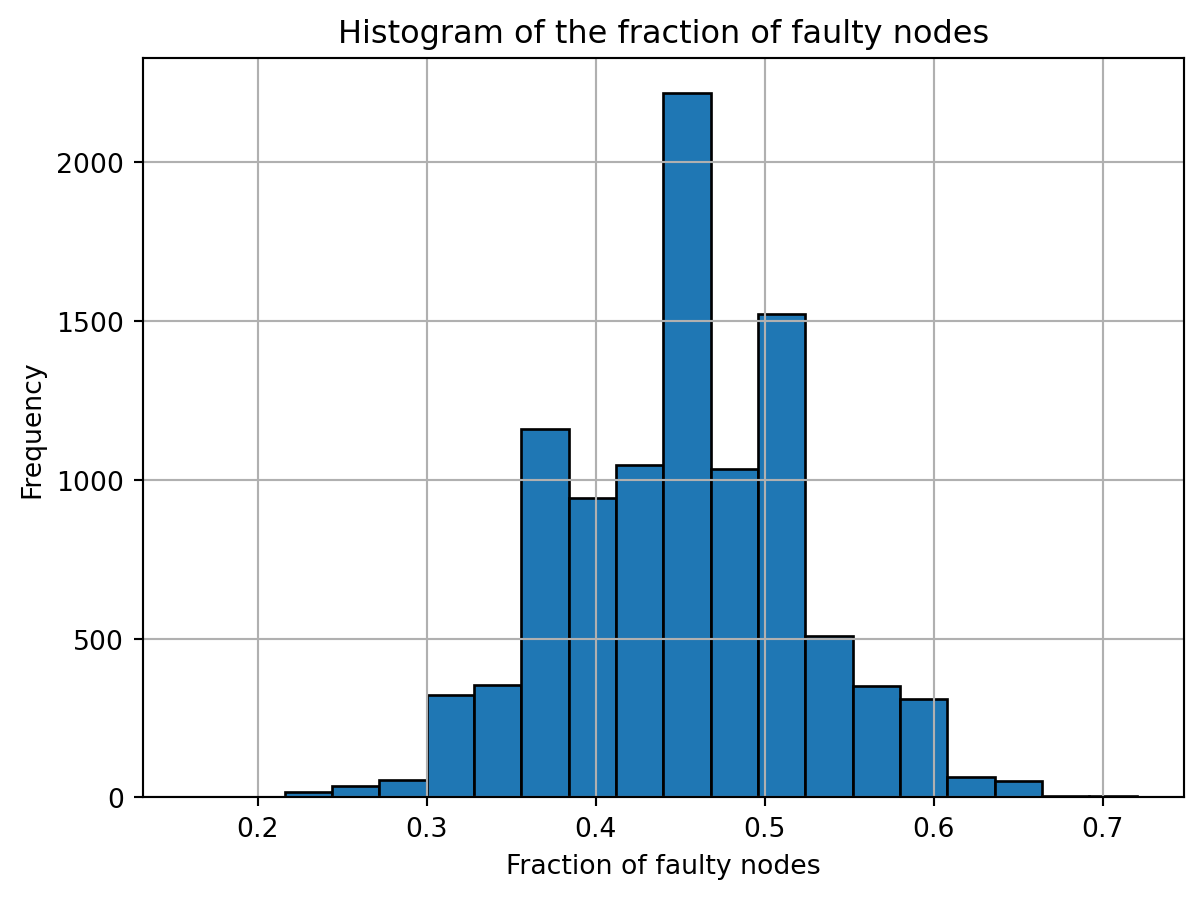
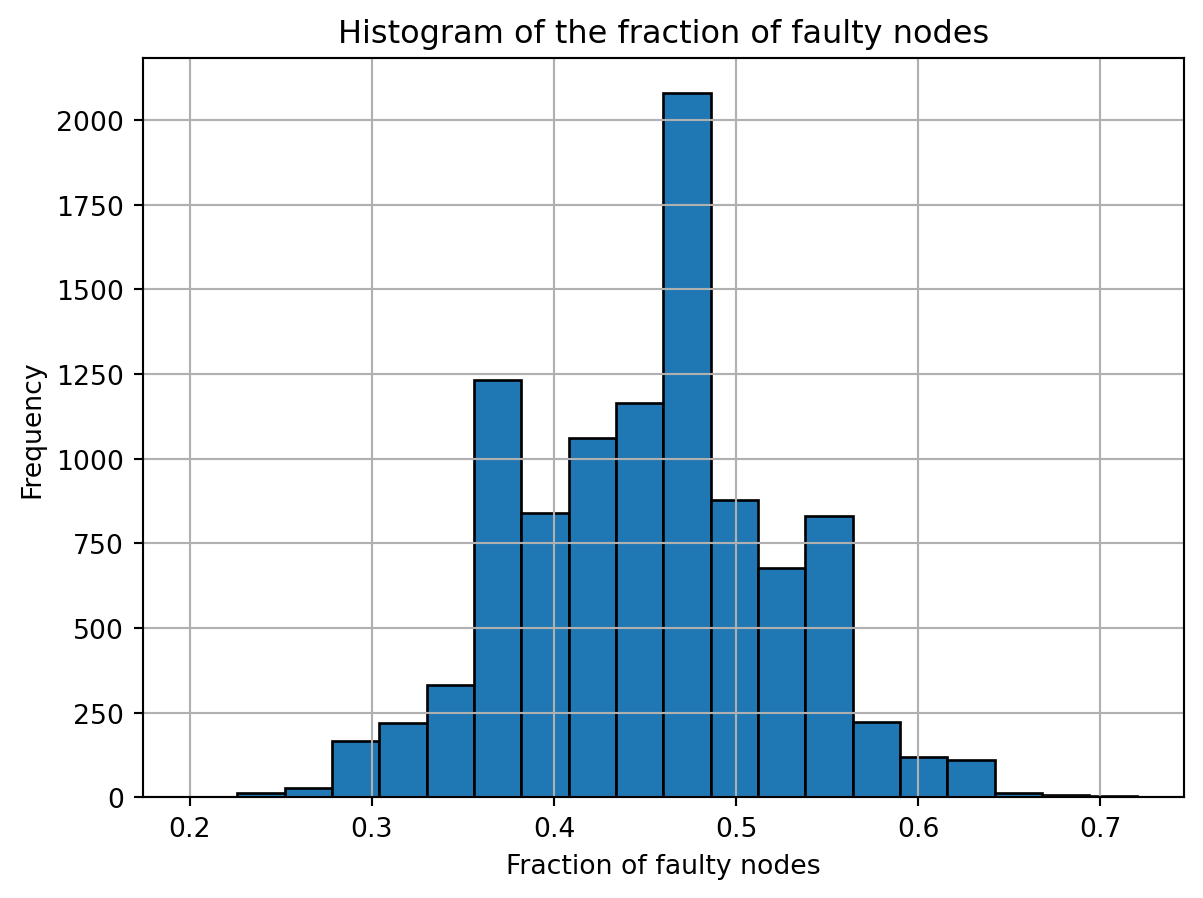
Add files via upload

diff --git a/LongestChain.html b/LongestChain.html
@@ -624,7 +624,7 @@ Case ii) is essentially a generalization of case i): suppose that the integer $K
 </ul>
 <p>Can we turn this “on expectation” statement into a “with high probability” statement? To gain some intuition, you are invited to experiment with different values of <span class="math inline">\alpha</span> and <span class="math inline">K</span>, using the Python code snippets below.</p>
 <p>To create one such leader sequence, use the following code:</p>
-<div id="c1b9fd3f" class="cell" data-execution_count="1">
+<div id="ca744aad" class="cell" data-execution_count="1">
 <details class="code-fold">
 <summary>Code</summary>
 <div class="sourceCode cell-code" id="cb2"><pre class="sourceCode python code-with-copy"><code class="sourceCode python"><span id="cb2-1"><a href="#cb2-1" aria-hidden="true" tabindex="-1"></a><span class="im">import</span> numpy <span class="im">as</span> np</span>
@@ -646,7 +646,7 @@ Case ii) is essentially a generalization of case i): suppose that the integer $K
 <span id="cb2-17"><a href="#cb2-17" aria-hidden="true" tabindex="-1"></a>    <span class="cf">return</span> samples</span></code><button title="Copy to Clipboard" class="code-copy-button"><i class="bi"></i></button></pre></div>
 </details>
 </div>
-<div id="3d6d4049" class="cell" data-execution_count="2">
+<div id="29aee131" class="cell" data-execution_count="2">
 <div class="sourceCode cell-code" id="cb3"><pre class="sourceCode python code-with-copy"><code class="sourceCode python"><span id="cb3-1"><a href="#cb3-1" aria-hidden="true" tabindex="-1"></a><span class="co"># Example usage:</span></span>
 <span id="cb3-2"><a href="#cb3-2" aria-hidden="true" tabindex="-1"></a>K <span class="op">=</span> <span class="dv">10</span>      <span class="co"># number of leaders</span></span>
 <span id="cb3-3"><a href="#cb3-3" aria-hidden="true" tabindex="-1"></a>alpha <span class="op">=</span> <span class="fl">0.45</span> <span class="co"># probability of leader being faulty</span></span>
@@ -655,12 +655,12 @@ Case ii) is essentially a generalization of case i): suppose that the integer $K
 <span id="cb3-6"><a href="#cb3-6" aria-hidden="true" tabindex="-1"></a></span>
 <span id="cb3-7"><a href="#cb3-7" aria-hidden="true" tabindex="-1"></a><span class="bu">print</span>(<span class="st">"Fraction of faulty leaders:"</span>, np.<span class="bu">sum</span>(samples)<span class="op">/</span>K)</span></code><button title="Copy to Clipboard" class="code-copy-button"><i class="bi"></i></button></pre></div>
 <div class="cell-output cell-output-stdout">
-<pre><code>Sampled leaders: [1 1 0 1 1 1 0 1 0 0]
-Fraction of faulty leaders: 0.6</code></pre>
+<pre><code>Sampled leaders: [0 0 1 1 1 1 0 0 1 0]
+Fraction of faulty leaders: 0.5</code></pre>
 </div>
 </div>
 <p>If you run the above code several times, you will see that the outcome varies a bit. The following code allows you to run the process <span class="math inline">T</span> times and create a histogram of the fractions of faulty nodes.</p>
-<div id="09a98bc8" class="cell" data-execution_count="3">
+<div id="148fdfd3" class="cell" data-execution_count="3">
 <details class="code-fold">
 <summary>Code</summary>
 <div class="sourceCode cell-code" id="cb5"><pre class="sourceCode python code-with-copy"><code class="sourceCode python"><span id="cb5-1"><a href="#cb5-1" aria-hidden="true" tabindex="-1"></a><span class="kw">def</span> sample_T_sequences(T, K, alpha):</span>
@@ -699,7 +699,7 @@ Fraction of faulty leaders: 0.6</code></pre>
   background-color: #ffffff;
 }
 </style>
-<div id="4b29b727" class="cell" data-execution_count="4">
+<div id="fafd45a0" class="cell" data-execution_count="4">
 <div class="sourceCode cell-code" id="cb6"><pre class="sourceCode python code-with-copy"><code class="sourceCode python"><span id="cb6-1"><a href="#cb6-1" aria-hidden="true" tabindex="-1"></a><span class="co"># Example usage:</span></span>
 <span id="cb6-2"><a href="#cb6-2" aria-hidden="true" tabindex="-1"></a>T <span class="op">=</span> <span class="dv">10000</span>     <span class="co"># Number of leader sequences</span></span>
 <span id="cb6-3"><a href="#cb6-3" aria-hidden="true" tabindex="-1"></a>K <span class="op">=</span> <span class="dv">50</span>       <span class="co"># Number of leaders per sequence</span></span>
@@ -713,7 +713,7 @@ Fraction of faulty leaders: 0.6</code></pre>
 <span id="cb6-11"><a href="#cb6-11" aria-hidden="true" tabindex="-1"></a><span class="co"># Plot the histogram of fractions</span></span>
 <span id="cb6-12"><a href="#cb6-12" aria-hidden="true" tabindex="-1"></a>plot_histogram(fractions)</span></code><button title="Copy to Clipboard" class="code-copy-button"><i class="bi"></i></button></pre></div>
 <div class="cell-output cell-output-stdout">
-<pre><code>The fraction of leader sequences that are balanced is: 0.7184</code></pre>
+<pre><code>The fraction of leader sequences that are balanced is: 0.7138</code></pre>
 </div>
 <div class="cell-output cell-output-display">
 <div class="quarto-figure quarto-figure-center">

diff --git a/ProofofWork.html b/ProofofWork.html
@@ -322,14 +322,14 @@ window.Quarto = {
 <h2 data-number="6.3" class="anchored" data-anchor-id="sha-256"><span class="header-section-number">6.3</span> SHA-256</h2>
 <p>Here we give a brief illustration of how hashing works. We will use as example the SHA-256 hash function. SHA stands for Secure Hash Algorithm. The number 256 refers to the number of bits of the output.</p>
 <p>We will use the python <code>hashlib</code> module, which we first need to import.</p>
-<div id="05f65bbb" class="cell" data-execution_count="1">
+<div id="4d0245b1" class="cell" data-execution_count="1">
 <details class="code-fold">
 <summary>Code</summary>
 <div class="sourceCode cell-code" id="cb1"><pre class="sourceCode python code-with-copy"><code class="sourceCode python"><span id="cb1-1"><a href="#cb1-1" aria-hidden="true" tabindex="-1"></a><span class="im">import</span> hashlib</span></code><button title="Copy to Clipboard" class="code-copy-button"><i class="bi"></i></button></pre></div>
 </details>
 </div>
 <p>Here is an example of how to use SHA256 to hash a short message. The input message will be ``Decentralized finance is cool!’’ and the output is a bitstring of length 256.</p>
-<div id="3a30f424" class="cell" data-execution_count="2">
+<div id="f0caf1dc" class="cell" data-execution_count="2">
 <div class="sourceCode cell-code" id="cb2"><pre class="sourceCode python code-with-copy"><code class="sourceCode python"><span id="cb2-1"><a href="#cb2-1" aria-hidden="true" tabindex="-1"></a><span class="co"># The message to hash</span></span>
 <span id="cb2-2"><a href="#cb2-2" aria-hidden="true" tabindex="-1"></a>message <span class="op">=</span> <span class="st">"Decentralized finance is cool!"</span></span>
 <span id="cb2-3"><a href="#cb2-3" aria-hidden="true" tabindex="-1"></a></span>
@@ -349,7 +349,7 @@ Length of the bitstring: 256</code></pre>
 </div>
 </div>
 <p>Let us now investigate the key property of hash functions: they look like a random function. In particular, this implies that it is hard to predict the output of the function. To illustrate this, let us hash a second message that is very similar to the first: ``Decentralized finance is cool!!!’’</p>
-<div id="d731ca7e" class="cell" data-execution_count="3">
+<div id="8b6c4bf3" class="cell" data-execution_count="3">
 <details class="code-fold">
 <summary>Code</summary>
 <div class="sourceCode cell-code" id="cb4"><pre class="sourceCode python code-with-copy"><code class="sourceCode python"><span id="cb4-1"><a href="#cb4-1" aria-hidden="true" tabindex="-1"></a><span class="co">### Second message </span></span>
@@ -372,7 +372,7 @@ Length of the bitstring: 256</code></pre>
 </div>
 </div>
 <p>If you compare the two strings, you will notice some differences right away. How different are the two strings? If the hash function assigns a random output to every input, then you would expect the two bitstrings to differ in roughly half their entries. Let us use python to count the number of different entries in the two strings.</p>
-<div id="5ae70ddc" class="cell" data-execution_count="4">
+<div id="bc9d03b4" class="cell" data-execution_count="4">
 <details class="code-fold">
 <summary>Code</summary>
 <div class="sourceCode cell-code" id="cb6"><pre class="sourceCode python code-with-copy"><code class="sourceCode python"><span id="cb6-1"><a href="#cb6-1" aria-hidden="true" tabindex="-1"></a><span class="kw">def</span> count_differences(bitstring1, bitstring2):</span>

diff --git a/08-tullock-contest.html b/08-tullock-contest.html
@@ -283,7 +283,7 @@ window.Quarto = {
 
 <p><link rel="preconnect" href="https://fonts.googleapis.com"> <link rel="preconnect" href="https://fonts.gstatic.com" crossorigin=""> <link href="https://fonts.googleapis.com/css2?family=Fira+Mono&amp;family=Fira+Sans&amp;display=swap" rel="stylesheet"></p>
 <p>In the previous chapter we saw that (in theory) the proportional allocation rule is a good way to divide the (expected) rewards of mining a unit of cryptocurrency. One aspect that this rule did not take into account is the fact that it costs time and money to guess solutions for the puzzle contest that determines the leader of the next round in the Proof-of-Work protocol.</p>
-<p>A more realistic way of denoting the reward, or said better, the * (expected) payoff* of miner <span class="math inline">i</span>, is <span class="math display">
+<p>A more realistic way of denoting the reward, or said better, the <em>(expected) payoff</em> of miner <span class="math inline">i</span>, is <span class="math display">
 \frac{\mu_i}{\sum_j \mu_j} - c_i(\mu_i)
 </span> where the function <span class="math inline">c_i : \mathbb{R}_{\geq 0} \rightarrow \mathbb{R}_{\geq 0}</span> is a nondecreasing cost function: The more hashing power miner <span class="math inline">i</span> uses, the higher the cost <span class="math inline">c_i(\mu_i)</span> she has to pay. For example, this cost could model the energy consumption of the computers used to guess solutions with. Note that <span class="math inline">c_i</span> is a miner-specific function.</p>
 <p>In this chapter we will allow real values of <span class="math inline">\mu_i</span>, as opposed to only integer values, so that the payoff of miner <span class="math inline">i</span> is continuous. For simplicity, we will assume that for every <span class="math inline">i=1,\dots,n</span>, <span class="math inline">c_i</span> is a linear function of the form <span class="math inline">c_i(\mu_i) = a_i\cdot \mu_i</span> for <span class="math inline">a_i &gt; 0</span>, so that the payoff of miner <span class="math inline">i</span> becomes <span class="math display">
@@ -349,7 +349,7 @@ g_2(x) = 2 \cdot \frac{x}{8/9 + x} - x
   background-color: #ffffff;
 }
 </style>
-<div id="941e95af" class="cell" data-execution_count="1">
+<div id="956ede73" class="cell" data-execution_count="1">
 <details class="code-fold">
 <summary>Show code generating the plot below</summary>
 <div class="sourceCode cell-code" id="cb1"><pre class="sourceCode python code-with-copy"><code class="sourceCode python"><span id="cb1-1"><a href="#cb1-1" aria-hidden="true" tabindex="-1"></a><span class="im">import</span> numpy <span class="im">as</span> np</span>
